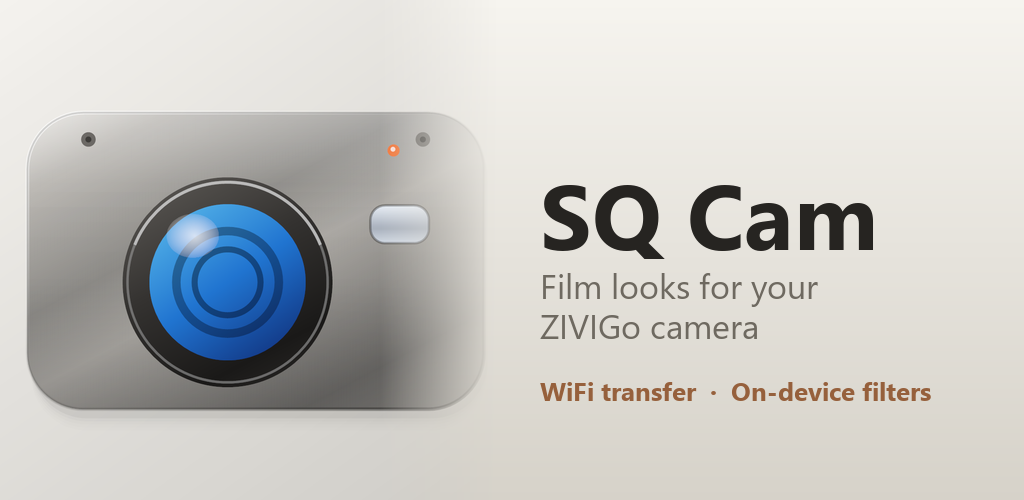
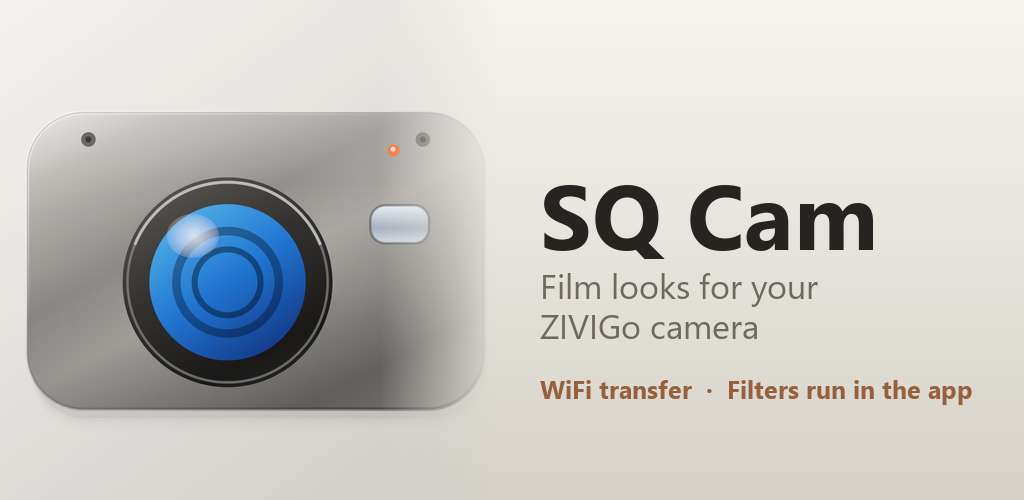
perf(assets): 边框与胶片预览图从 PNG 换成 WebP，安装包 143.5 MB → 48.7 MB
assets/frames 和 assets/film_presets 都是 RGBA 覆盖层/预览图，PNG 在这种
「大面积全透明 + 少数细节」的内容上浪费得厉害：

  assets/frames/        29 张  87.1 MB → 6.9 MB  (-92%)
  assets/film_presets/  12 张  14.4 MB → 1.2 MB  (-92%)
  AAB（arm64+v7a）     143.5 MB → 48.7 MB (-66%)
  APK（侧载用）        162.7 MB → 74.5 MB (-54%)

选 WebP 之前先验过质量，scripts/compare_frame_quality.py 会从 git 取出原 PNG、
算 PSNR 并输出并排 1:1 对比图：
  frame_22 / frame_25  RGB PSNR 41.9 / 42.8 dB，alpha 通道误差 0
  eterna（预设图）      RGB PSNR 39.9 dB
胶片边框的镂空边缘是硬 alpha，误差 0 意味着边缘一点没糊。

改动
- assets/frames/*.png → *.webp（29 张），frames_meta.json 内的 file 字段同步
- assets/film_presets/*.png → *.webp（12 张，质量 88）
- borders_screen.dart 与 film_presets.dart 里的资源路径同步改 .webp
- 新增 scripts/convert_assets_to_webp.py（可指定目录/质量，写入后回读校验可解码）
- 新增 scripts/compare_frame_quality.py（PSNR + 并排对比图）
- docs/PLAY_SUBMISSION.md 更新体积数据，并写明「滤镜在 App 内计算、相机只负责
  拍摄与传图」的措辞要求
- store/play/feature-graphic-1024x500.png 文案从 "On-device filters" 改为
  "Filters run in the app"：滤镜全部在手机 App 端跑，相机端不做任何处理

验证
- flutter test：42 passed
- build_play_bundle.ps1：AAB 48.7 MB，ABIs=arm64-v8a+armeabi-v7a，64 位库全部
  16KB 对齐，验签通过

Changed region(s): [[0.5312, 0.75, 0.9688, 0.81]]

diff --git a/lib/widgets/film_presets.dart b/lib/widgets/film_presets.dart
@@ -18,21 +18,21 @@ class FilmPresets extends StatelessWidget {
   // Film presets with placeholder colors for representative images
   static const _presets = [
     _PresetData('NONE', Color(0xFF3A3A3A)),
-    _PresetData('ACROS', Color(0xFF2D2D2D), 'assets/film_presets/acros.png'),
+    _PresetData('ACROS', Color(0xFF2D2D2D), 'assets/film_presets/acros.webp'),
     _PresetData('CLASSIC CHROME', Color(0xFF4A6B8A),
-        'assets/film_presets/classic_chrome.png'),
-    _PresetData('ETERNA', Color(0xFF6B5B4F), 'assets/film_presets/eterna.png'),
+        'assets/film_presets/classic_chrome.webp'),
+    _PresetData('ETERNA', Color(0xFF6B5B4F), 'assets/film_presets/eterna.webp'),
     _PresetData('CLASSIC Neg.', Color(0xFF5A7A5A),
-        'assets/film_presets/classic_neg.png'),
+        'assets/film_presets/classic_neg.webp'),
     _PresetData('PRO Neg.Hi', Color(0xFF8B7D6B),
-        'assets/film_presets/pro_neg_hi.png'),
-    _PresetData('VELVIA', Color(0xFF4A8B3A), 'assets/film_presets/velvia.png'),
-    _PresetData('ASTIA', Color(0xFFC4956A), 'assets/film_presets/astia.png'),
-    _PresetData('PROVIA', Color(0xFF6A8BAF), 'assets/film_presets/provia_100f.png'),
-    _PresetData('Pro 400H', Color(0xFF7BA4B8), 'assets/film_presets/pro_400h.png'),
-    _PresetData('Portra 400', Color(0xFFC4956B), 'assets/film_presets/portra_400.png'),
-    _PresetData('Gold 200', Color(0xFFD4A44A), 'assets/film_presets/gold_200.png'),
-    _PresetData('UltraMax 400', Color(0xFFC4783C), 'assets/film_presets/ultramax_400.png'),
+        'assets/film_presets/pro_neg_hi.webp'),
+    _PresetData('VELVIA', Color(0xFF4A8B3A), 'assets/film_presets/velvia.webp'),
+    _PresetData('ASTIA', Color(0xFFC4956A), 'assets/film_presets/astia.webp'),
+    _PresetData('PROVIA', Color(0xFF6A8BAF), 'assets/film_presets/provia_100f.webp'),
+    _PresetData('Pro 400H', Color(0xFF7BA4B8), 'assets/film_presets/pro_400h.webp'),
+    _PresetData('Portra 400', Color(0xFFC4956B), 'assets/film_presets/portra_400.webp'),
+    _PresetData('Gold 200', Color(0xFFD4A44A), 'assets/film_presets/gold_200.webp'),
+    _PresetData('UltraMax 400', Color(0xFFC4783C), 'assets/film_presets/ultramax_400.webp'),
   ];
 
   @override

diff --git a/lib/screens/borders_screen.dart b/lib/screens/borders_screen.dart
@@ -26,23 +26,23 @@ class _BordersScreenState extends State<BordersScreen> {
 
   static const _borderFiles = [
     'NONE',          // No border — deselect
-    'frame_19.png',  // 50% border
-    'frame_25.png',  // 37%
-    'frame_24.png',  // 36%
-    'frame_26.png',  // 36%
-    'frame_20.png',  // 35%
-    'frame_21.png',  // 34%
-    'frame_22.png',  // 34%
-    'frame_23.png',  // 34%
-    'frame_18.png',  // 34%
-    'frame_06.png',  // 33%
-    'frame_11.png',  // 33%
-    'frame_27.png',  // 32%
-    'frame_10.png',  // 31%
-    'frame_09.png',  // 29%
-    'frame_28.png',  // 29%
-    'frame_13.png',  // 26%
-    'kodak 400 52.png',  // 24%
+    'frame_19.webp',  // 50% border
+    'frame_25.webp',  // 37%
+    'frame_24.webp',  // 36%
+    'frame_26.webp',  // 36%
+    'frame_20.webp',  // 35%
+    'frame_21.webp',  // 34%
+    'frame_22.webp',  // 34%
+    'frame_23.webp',  // 34%
+    'frame_18.webp',  // 34%
+    'frame_06.webp',  // 33%
+    'frame_11.webp',  // 33%
+    'frame_27.webp',  // 32%
+    'frame_10.webp',  // 31%
+    'frame_09.webp',  // 29%
+    'frame_28.webp',  // 29%
+    'frame_13.webp',  // 26%
+    'kodak 400 52.webp',  // 24%
   ];
 
   @override

diff --git a/scripts/convert_assets_to_webp.py b/scripts/convert_assets_to_webp.py
@@ -1,0 +1,68 @@
+"""Re-encode PNG asset folders to WebP.
+
+assets/frames/ was 87 MB of PNG and dominated the install size; these are RGBA
+overlays that are 64-94% fully transparent, exactly what WebP handles far better
+than PNG. assets/film_presets/ is the same story at a smaller scale.
+
+Usage:
+    python scripts/convert_assets_to_webp.py --dir assets/frames --dry-run
+    python scripts/convert_assets_to_webp.py --dir assets/frames --apply
+    python scripts/convert_assets_to_webp.py --dir assets/film_presets --apply --quality 88
+
+After running, the PNGs still exist: compare quality with
+scripts/compare_frame_quality.py, then `git rm` the PNGs and update the asset
+paths in lib/ (and frames_meta.json for the border frames).
+"""
+
+import argparse
+import io
+from pathlib import Path
+
+from PIL import Image
+
+ROOT = Path(__file__).resolve().parent.parent
+
+
+def convert(folder: Path, quality: int, dry_run: bool):
+    pngs = sorted(folder.glob("*.png"))
+    if not pngs:
+        raise SystemExit(f"no PNGs in {folder}")
+
+    before = after = 0
+    for src in pngs:
+        before += src.stat().st_size
+        img = Image.open(src).convert("RGBA")
+
+        if dry_run:
+            buf = io.BytesIO()
+            img.save(buf, "WEBP", quality=quality, method=6, alpha_quality=100)
+            new_size = buf.tell()
+        else:
+            dst = src.with_suffix(".webp")
+            img.save(dst, "WEBP", quality=quality, method=6, alpha_quality=100)
+            # Read the file back: prove what we just wrote actually decodes.
+            with Image.open(dst) as check:
+                if check.size != img.size:
+                    raise SystemExit(f"{dst.name}: size changed on write")
+                check.load()
+            new_size = dst.stat().st_size
+        after += new_size
+        pct = 100 * (1 - new_size / src.stat().st_size)
+        print(f"{src.name:22s} {src.stat().st_size/1e6:6.2f} MB -> {new_size/1e6:6.2f} MB  (-{pct:.0f}%)")
+
+    print(f"\n{folder.relative_to(ROOT)}: {before/1e6:.1f} MB -> {after/1e6:.1f} MB "
+          f"(-{100*(1-after/before):.1f}%, saved {(before-after)/1e6:.1f} MB)")
+    if dry_run:
+        print("dry run: nothing written")
+
+
+if __name__ == "__main__":
+    ap = argparse.ArgumentParser()
+    ap.add_argument("--dir", default="assets/frames")
+    ap.add_argument("--quality", type=int, default=90)
+    ap.add_argument("--apply", action="store_true")
+    ap.add_argument("--dry-run", action="store_true")
+    args = ap.parse_args()
+    if not args.apply and not args.dry_run:
+        raise SystemExit("pass --dry-run or --apply")
+    convert(ROOT / args.dir, args.quality, dry_run=not args.apply)

diff --git a/scripts/compare_frame_quality.py b/scripts/compare_frame_quality.py
@@ -1,0 +1,69 @@
+"""Compare a WebP frame against the PNG it replaced, at native resolution."""
+
+import subprocess
+import sys
+from pathlib import Path
+
+import numpy as np
+from PIL import Image
+
+ROOT = Path(__file__).resolve().parent.parent
+TMP = Path(r"C:\H3\APP\_macops")
+TMP.mkdir(exist_ok=True)
+
+
+def png_from_git(dir_rel: str, name: str) -> Image.Image:
+    out = TMP / ("orig_" + name)
+    data = subprocess.run(
+        ["git", "show", f"HEAD:{dir_rel}/{name}"],
+        cwd=ROOT, capture_output=True, check=True,
+    ).stdout
+    out.write_bytes(data)
+    return Image.open(out).convert("RGBA")
+
+
+def main(name: str, dir_rel: str = "assets/frames"):
+    a = png_from_git(dir_rel, name)
+    b = Image.open(ROOT / dir_rel / name.replace(".png", ".webp")).convert("RGBA")
+    assert a.size == b.size, (a.size, b.size)
+
+    na = np.asarray(a, dtype=np.float32)
+    nb = np.asarray(b, dtype=np.float32)
+
+    # RGB error only where the frame actually paints something.
+    mask = na[:, :, 3] > 8
+    d = np.abs(na[:, :, :3] - nb[:, :, :3])[mask]
+    mse = float((d ** 2).mean())
+    psnr = 99.0 if mse == 0 else 10 * np.log10(255.0 ** 2 / mse)
+    alpha_diff = float(np.abs(na[:, :, 3] - nb[:, :, 3]).max())
+    print(f"{name}: size {a.size}, painted {mask.mean()*100:.1f}% of pixels")
+    print(f"  RGB PSNR {psnr:.2f} dB, mean abs err {d.mean():.2f}/255, max {d.max():.0f}")
+    print(f"  max alpha error {alpha_diff:.0f}/255")
+
+    # Side-by-side 1:1 crop from the densest painted band. Frames are border
+    # overlays, so the median painted pixel can sit inside the transparent hole;
+    # the row with the most painted pixels is guaranteed to be on the artwork.
+    ys, xs = np.where(mask)
+    top, bottom = int(ys.min()), int(ys.max())
+    left, right = int(xs.min()), int(xs.max())
+    row_counts = mask.sum(axis=1)
+    band = int(np.argmax(row_counts))
+    band = min(max(band, top), bottom)
+    half = 320
+    cx = (left + right) // 2
+    box = (max(cx - half, 0), max(band - half // 2, 0),
+           min(cx + half, a.width), min(band + half // 2, a.height))
+    ca, cb = a.crop(box), b.crop(box)
+    w, h = ca.size
+    canvas = Image.new("RGB", (w * 2 + 12, h), (30, 30, 30))
+    for img, x in ((ca, 0), (cb, w + 12)):
+        bg = Image.new("RGBA", img.size, (240, 240, 240, 255))
+        canvas.paste(Image.alpha_composite(bg, img).convert("RGB"), (x, 0))
+    out = TMP / "frame_compare.png"
+    canvas.save(out)
+    print("  comparison (left PNG, right WebP):", out)
+
+
+if __name__ == "__main__":
+    main(sys.argv[1] if len(sys.argv) > 1 else "frame_22.png",
+         sys.argv[2] if len(sys.argv) > 2 else "assets/frames")

diff --git a/scripts/make_play_assets.py b/scripts/make_play_assets.py
@@ -61,13 +61,13 @@ def make_feature_graphic():
     draw = ImageDraw.Draw(canvas)
     title = ImageFont.truetype(FONT_BOLD, 92)
     sub = ImageFont.truetype(FONT_REG, 34)
-    tag = ImageFont.truetype(FONT_BOLD, 26)
+    tag = ImageFont.truetype(FONT_BOLD, 25)
 
     x = H + 40
     draw.text((x, 150), "SQ Cam", font=title, fill=INK)
     draw.text((x, 262), "Film looks for your", font=sub, fill=MUTED)
     draw.text((x, 302), "ZIVIGo camera", font=sub, fill=MUTED)
-    draw.text((x, 372), "WiFi transfer  ·  On-device filters", font=tag, fill=(150, 96, 60))
+    draw.text((x, 372), "WiFi transfer  ·  Filters run in the app", font=tag, fill=(150, 96, 60))
 
     canvas.save(OUT / "feature-graphic-1024x500.png", "PNG", optimize=True)
     print("wrote", (OUT / "feature-graphic-1024x500.png").relative_to(ROOT), canvas.size)

diff --git a/docs/PLAY_SUBMISSION.md b/docs/PLAY_SUBMISSION.md
@@ -12,7 +12,7 @@
 | minSdk / targetSdk | 24 / **36** | merged manifest（Play 要求 targetSdk ≥ 35） |
 | 64 位支持 | arm64-v8a + armeabi-v7a | 同上 |
 | **16 KB 内存页** | 64 位库全部合规 | `scripts/inspect_play_readiness.py` |
-| 包体积 | AAB 143.5 MB（含 ~50 MB 符号表，Play 会剔除；实际下载约 90 MB） | 同上 |
+| 包体积 | AAB **48.7 MB**（素材转 WebP 前是 143.5 MB）；Play 按 ABI 分发，arm64 机型实际下载约 30 MB | 同上 |
 | **上传签名** | 已从 debug key 换成正式上传密钥 | `jarsigner -verify` 通过，证书 `CN=SQ Cam` |
 | 权限 | 10 个减到 6 个 | 见下方说明 |
 | 商店图 | 图标 512×512、特征图 1024×500、手机截图 5 张 1284×2568 | `store/play/` |
@@ -61,7 +61,7 @@ powershell -File scripts\build_play_bundle.ps1
 |---|---|---|
 | 应用名称 | 30 字 | `SQ Cam - Film Camera` |
 | 简短说明 | 80 字 | `Transfer photos from your ZIVIGo camera and apply film looks.` |
-| 完整说明 | 4000 字 | 可参考 `docs/APPSTORE_SUBMISSION.md` 里的英文文案改写 |
+| 完整说明 | 4000 字 | 可参考 `docs/APPSTORE_SUBMISSION.md` 里的英文文案改写。**措辞注意**：滤镜、颗粒、漏光、边框全部在手机 App 内计算，相机只负责拍摄和 WiFi 传图——不要写成「相机内置滤镜」，否则和产品实际能力不符 |
 | 应用图标 | 512×512 | `store/play/icon-512.png` ✅ |
 | 特征图 | 1024×500 | `store/play/feature-graphic-1024x500.png` ✅ |
 | 手机截图 | 2–8 张 | `store/play/screenshots/`（5 张）✅ |
@@ -91,7 +91,28 @@ iPhone 截图是 1284×2778（1:2.16），**超过 Play 的 2:1 上限会被拒*
 
 ## 三、建议做但不会阻塞上架
 
-1. **包体积**：`assets/frames/` 30 张 PNG 共 **83 MB**，占了安装包的大头。转成 WebP（质量 85）大约能压到 8–12 MB。对 4G 用户的首装体验影响很直接。
-2. **安卓启动图**：`launch_background.xml` 还是纯白，iOS 那边有 LaunchScreen。建议换成米色底 + 产品图，保持一致。
-3. **重拍安卓截图**：现在这 5 张是 iPhone 截图裁的，状态栏是 iOS 的。用安卓真机重拍会更自然（也顺便能展示安卓特有的表现）。
-4. **Gradle 8.13 → 8.14+**：Flutter 已经警告该版本很快不再支持。
+1. **安卓启动图**：`launch_background.xml` 还是纯白，iOS 那边有 LaunchScreen。建议换成米色底 + 产品图，保持一致。
+2. **重拍安卓截图**：现在这 5 张是 iPhone 截图裁的，状态栏是 iOS 的。用安卓真机重拍会更自然（也顺便能展示安卓特有的表现）。
+3. **Gradle 8.13 → 8.14+**：Flutter 已经警告该版本很快不再支持。
+4. **未引用的边框素材**：`assets/frames/` 里有 12 张 WebP（frame_00/01/02/03/04/05/07/12/14/16/17/29）在 `borders_screen.dart` 的列表里没有任何引用，约 1 MB。要么补进列表，要么删掉。
+
+---
+
+## 四、素材体积优化（已完成）
+
+`assets/frames/` 和 `assets/film_presets/` 原来是 PNG，合计 101 MB，占了安装包的 70%：
+
+| 目录 | 转换前 | 转换后 | 降幅 |
+|---|---|---|---|
+| `assets/frames/`（29 张边框，大部分是大尺寸 RGBA 覆盖层） | 87.1 MB | 6.9 MB | −92% |
+| `assets/film_presets/`（12 张胶片罐预览图） | 14.4 MB | 1.2 MB | −92% |
+| **AAB 总体** | **143.5 MB** | **48.7 MB** | **−66%** |
+
+质量用 `scripts/compare_frame_quality.py` 逐张比对过：边框的 RGB PSNR 40.5–42.8 dB、**alpha 通道误差 0**（胶片边框的镂空边缘完全没糊），预览图 PSNR 39.9 dB，肉眼看不出差别。
+
+复现方式：
+
+```powershell
+python scripts\convert_assets_to_webp.py --dir assets/frames --apply
+python scripts\compare_frame_quality.py frame_22.png assets/frames   # 看 PSNR + 并排对比图
+```
